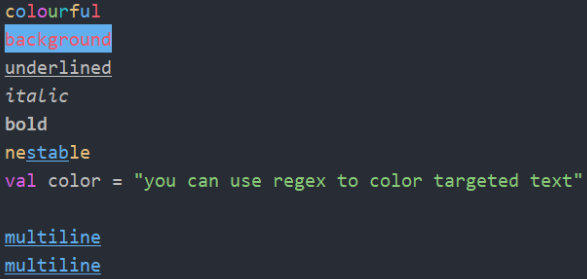
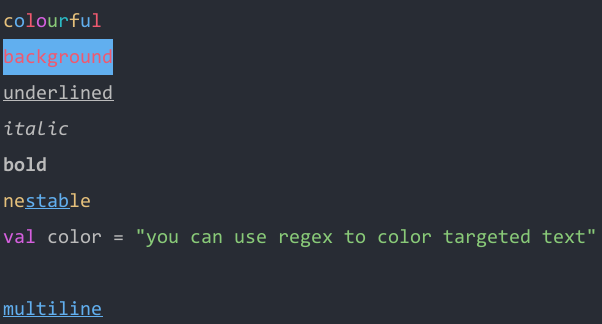
Replace example image.

diff --git a/README.md b/README.md
@@ -16,7 +16,7 @@
     
 </p>
 <p align="center">
-    <img src="img/result.png" width="587" alt="result.png">
+    <img src="img/result.png" width="602" alt="result.png">
 </p>
 
 ### code example
